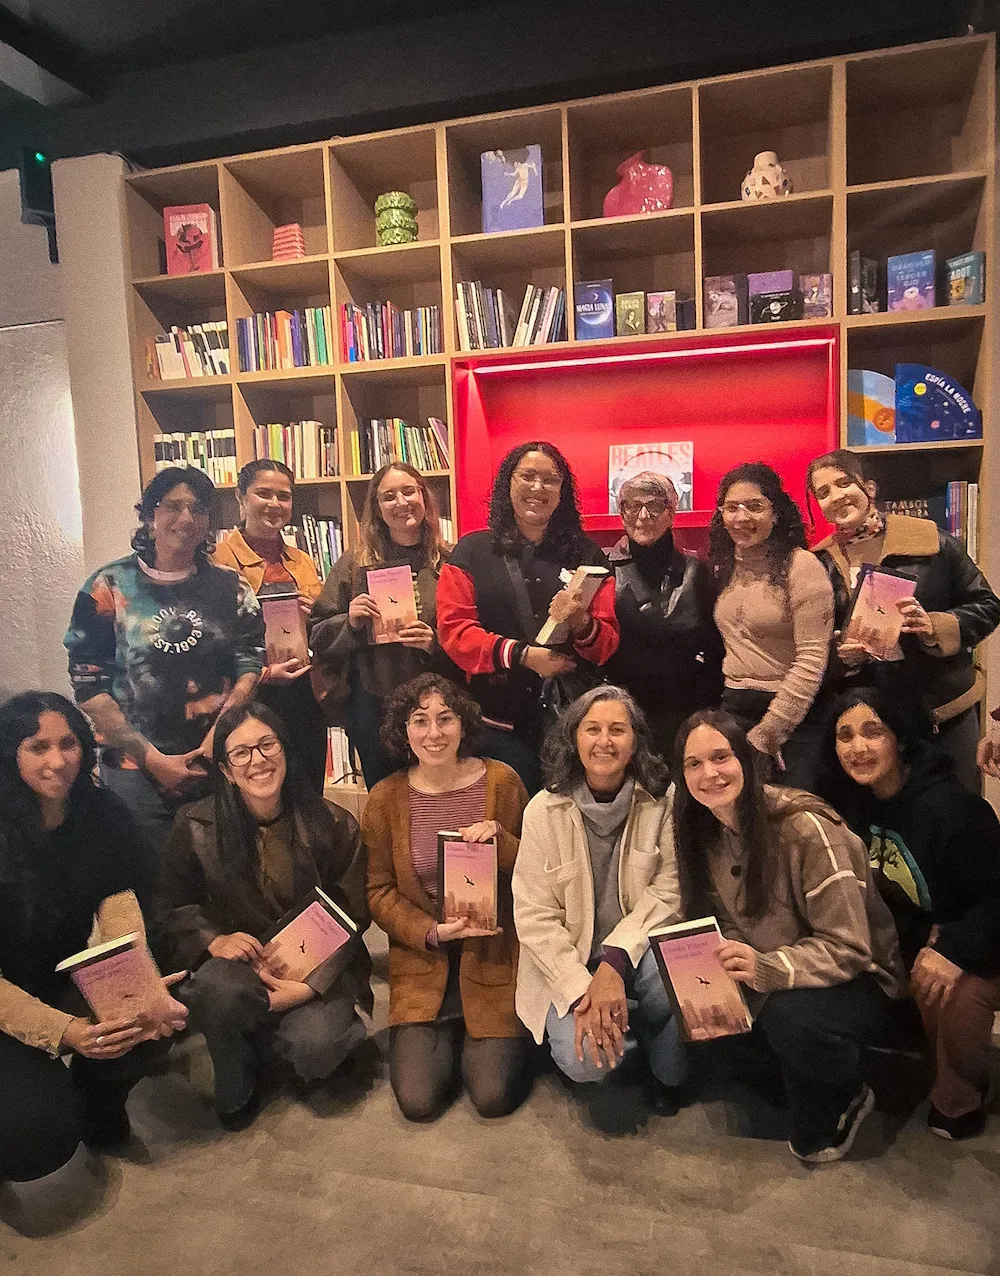
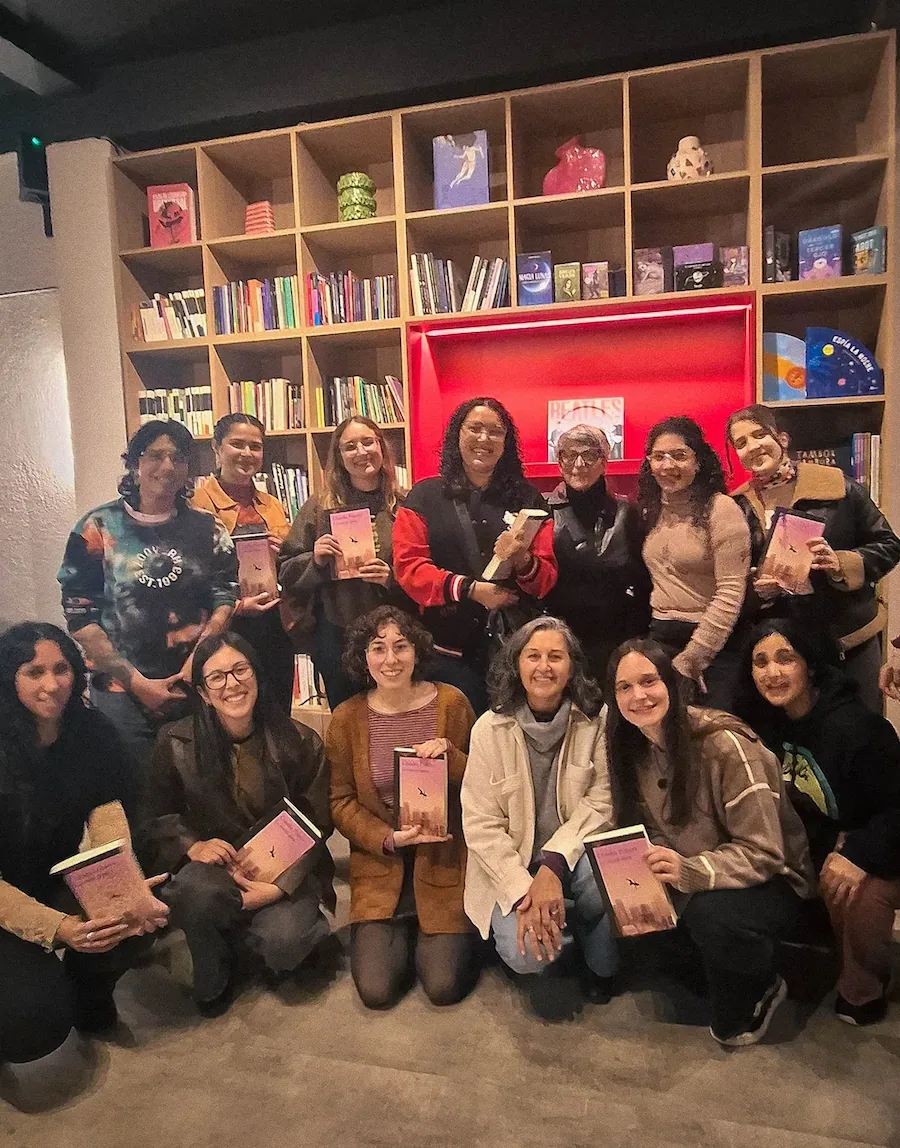
arreglos de CDN

Changed region(s): [[0.3733, 0.2439, 0.4356, 0.2744], [0.4044, 0.3354, 0.4356, 0.3659]]

diff --git a/pages/club.html b/pages/club.html
@@ -31,7 +31,7 @@
         <div class="header-contenido">
             <div class="brand">
                 <a href="../index.html" class="logo-link">
-                    <img src="../assets/img/LogoALUDSINFONDO.webp" alt="Logo de Espacio Alud" class="logo-img">
+                    <img src="../assets/img/LogoALUDSINFONDO.webp" alt="Logo de Espacio Alud" class="logo-img" width="100" height="100">
                     <h4 class="logo-nombre">Espacio ALUD</h4>
                 </a>
             </div>
@@ -100,7 +100,7 @@
     <footer>
         <div class="footer-logo">
             <a href="../index.html" class="logo-link">
-                <img src="../assets/img/LogoALUDSINFONDO.webp" alt="Logo de Espacio Alud" class="logo-img">
+                <img src="../assets/img/LogoALUDSINFONDO.webp" alt="Logo de Espacio Alud" class="logo-img" width="100" height="100">
                 <span class="logo-nombre">Espacio ALUD</span>
             </a>
         </div>

diff --git a/pages/contacto.html b/pages/contacto.html
@@ -33,7 +33,7 @@
         <div class="header-contenido">
             <div class="brand">
                 <a href="../index.html" class="logo-link">
-                    <img src="../assets/img/LogoALUDSINFONDO.webp" alt="Logo de Espacio Alud" class="logo-img">
+                    <img src="../assets/img/LogoALUDSINFONDO.webp" alt="Logo de Espacio Alud" class="logo-img" width="100" height="100">
                     <h4 class="logo-nombre">Espacio ALUD</h4>
                 </a>
             </div>
@@ -128,7 +128,7 @@
     <footer>
         <div class="footer-logo">
             <a href="../index.html" class="logo-link">
-                <img src="../assets/img/LogoALUDSINFONDO.webp" alt="Logo de Espacio Alud" class="logo-img">
+                <img src="../assets/img/LogoALUDSINFONDO.webp" alt="Logo de Espacio Alud" class="logo-img" width="100" height="100">
                 <span class="logo-nombre">Espacio ALUD</span>
             </a>
         </div>

diff --git a/pages/sobremi.html b/pages/sobremi.html
@@ -31,7 +31,7 @@
         <div class="header-contenido">
             <div class="brand">
                 <a href="../index.html" class="logo-link">
-                    <img src="../assets/img/LogoALUDSINFONDO.webp" alt="Logo de Espacio Alud" class="logo-img">
+                    <img src="../assets/img/LogoALUDSINFONDO.webp" alt="Logo de Espacio Alud" class="logo-img" width="100" height="100">
                     <h4 class="logo-nombre">Espacio ALUD</h4>
                 </a>
             </div>
@@ -91,7 +91,7 @@
     <footer>
         <div class="footer-logo">
             <a href="../index.html" class="logo-link">
-                <img src="../assets/img/LogoALUDSINFONDO.webp" alt="Logo de Espacio Alud" class="logo-img">
+                <img src="../assets/img/LogoALUDSINFONDO.webp" alt="Logo de Espacio Alud" class="logo-img" width="100" height="100">
                 <span class="logo-nombre">Espacio ALUD</span>
             </a>
         </div>

diff --git a/pages/crochet.html b/pages/crochet.html
@@ -32,7 +32,7 @@
         <div class="header-contenido">
             <div class="brand">
                 <a href="../index.html" class="logo-link">
-                    <img src="../assets/img/LogoALUDSINFONDO.webp" alt="Logo de Espacio Alud" class="logo-img">
+                    <img src="../assets/img/LogoALUDSINFONDO.webp" alt="Logo de Espacio Alud" class="logo-img" width="100" height="100">
                     <h4 class="logo-nombre">Espacio ALUD</h4>
                 </a>
             </div>
@@ -118,7 +118,7 @@
     <footer>
         <div class="footer-logo">
             <a href="index.html" class="logo-link">
-                <img src="../assets/img/LogoALUDSINFONDO.webp" alt="Logo de Espacio Alud" class="logo-img">
+                <img src="../assets/img/LogoALUDSINFONDO.webp" alt="Logo de Espacio Alud" class="logo-img" width="100" height="100">
                 <span class="logo-nombre">Espacio ALUD</span>
             </a>
         </div>

diff --git a/index.html b/index.html
@@ -32,7 +32,7 @@
         <div class="header-contenido">
             <div class="brand">
                 <a href="index.html" class="logo-link">
-                    <img src="./assets/img/LogoALUDSINFONDO.webp" alt="Logo de Espacio Alud" class="logo-img">
+                    <img src="./assets/img/LogoALUDSINFONDO.webp" alt="Logo de Espacio Alud" class="logo-img" width="100" height="100">
                     <h4 class="logo-nombre">Espacio ALUD</h4>
                 </a>
             </div>
@@ -106,7 +106,7 @@
     <footer>
         <div class="footer-logo">
             <a href="index.html" class="logo-link">
-                <img src="./assets/img/LogoALUDSINFONDO.webp" alt="Logo de Espacio Alud" class="logo-img">
+                <img src="./assets/img/LogoALUDSINFONDO.webp" alt="Logo de Espacio Alud" class="logo-img" width="100" height="100">
                 <span class="logo-nombre">Espacio ALUD</span>
             </a>
         </div>
